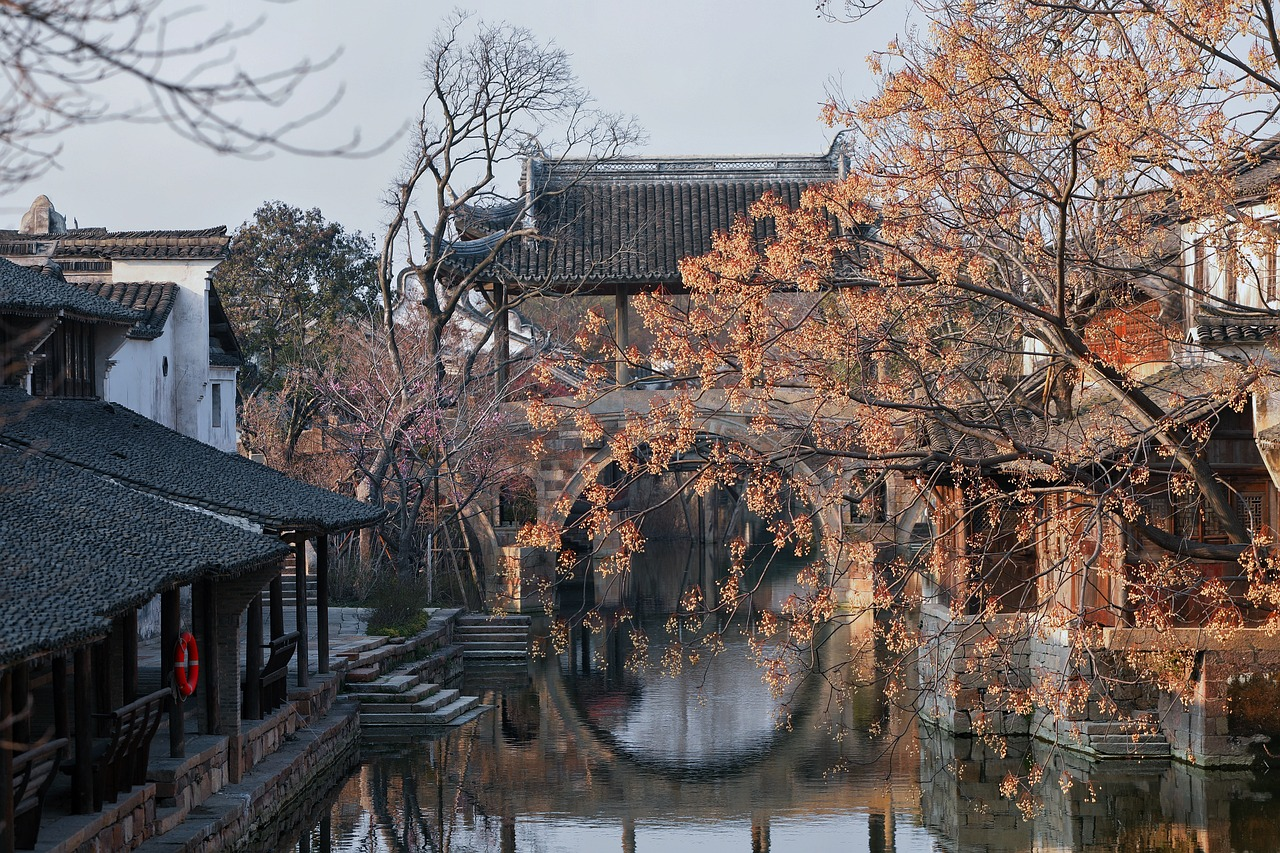
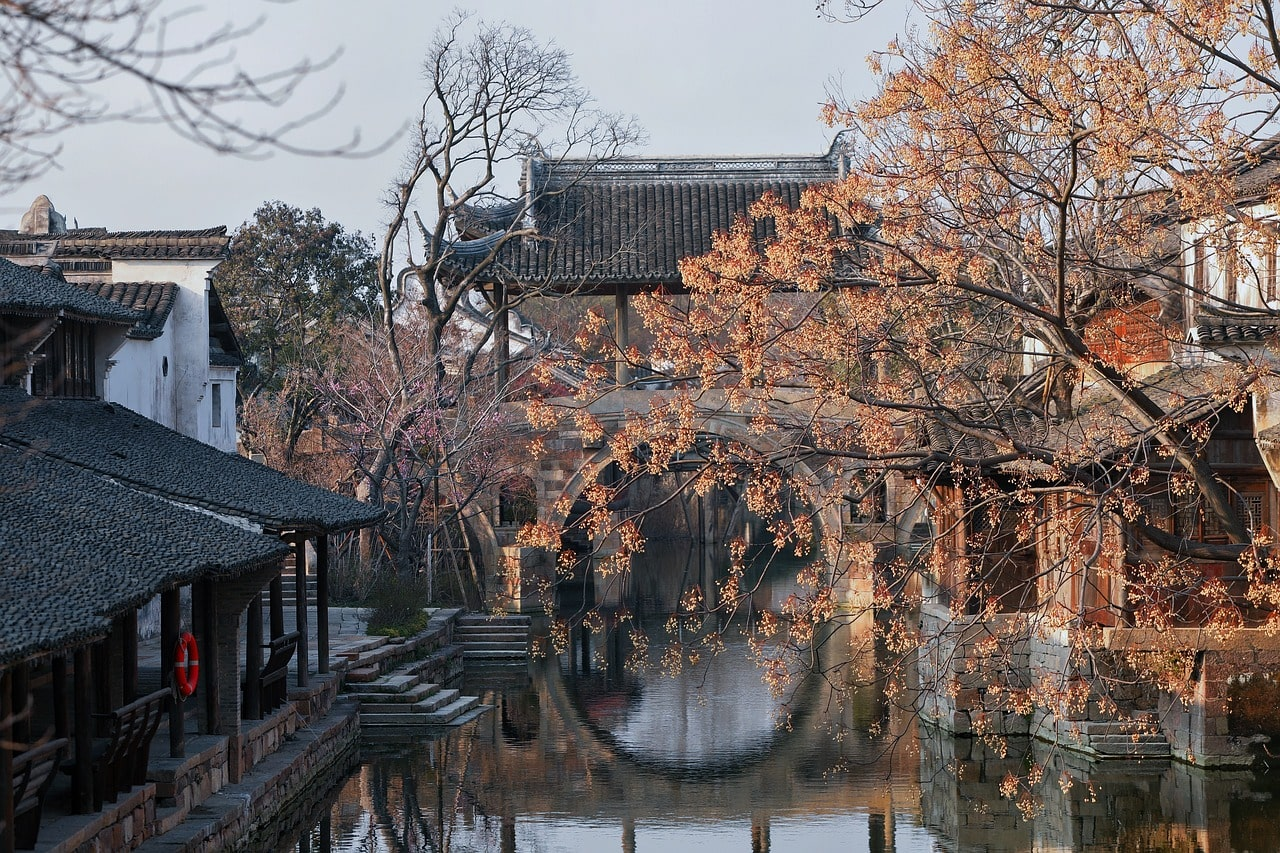
minimised some inages

diff --git a/PandaPath/src/App.jsx b/PandaPath/src/App.jsx
@@ -9,7 +9,6 @@ import Itinerary1 from './pages/Itinerary1';
 import Itinerary2 from './pages/Itinerary2';
 import LoginForm from './components/forms/LoginForm';
 import TripForm from './pages/TripForm';
-import ContactDetails from './components/forms/TripForm/ContactDetails';
 import SignUpForm from './components/forms/signUpForm';
 import AgentsPage from './pages/agentsPage';
 import RequestConfirmation from './pages/requestConfirmation'
@@ -50,7 +49,6 @@ if (sessionStorage.getItem('token')){
           <Route path="/agents" element={<AgentsPage />} />
           <Route path="/Expedition" element={<Itinerary1 />} />
           <Route path="/Guizhou" element={<Itinerary2 />} />
-          <Route path="/details" element={<ContactDetails />} />
           <Route path="/confirmation" element={<RequestConfirmation />} />
           <Route path="/yourtrip" element={<Yourtrip/>} />
         </Routes>

diff --git a/PandaPath/src/data/itineraryData.js b/PandaPath/src/data/itineraryData.js
@@ -1,3 +1,6 @@
+
+
+
 export const itinerary = [
   {
     img: 2,
